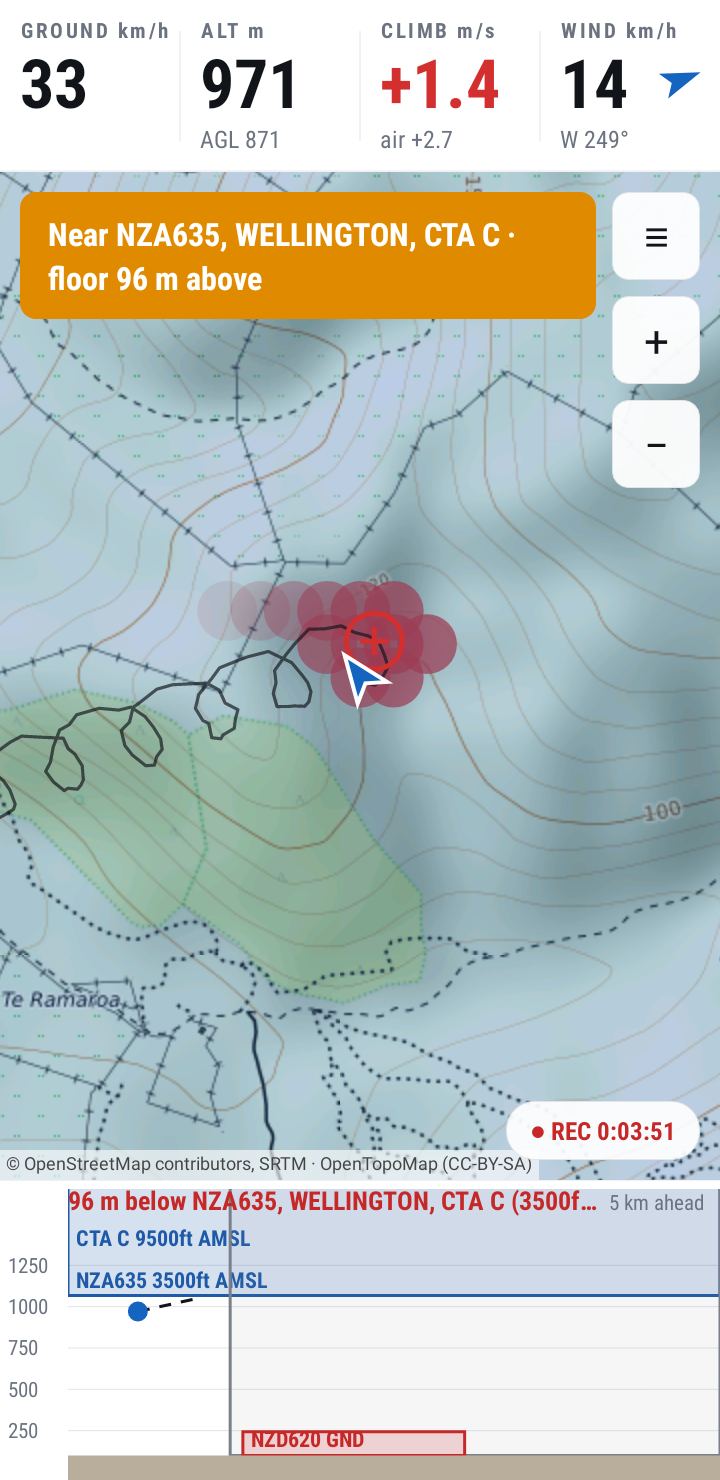
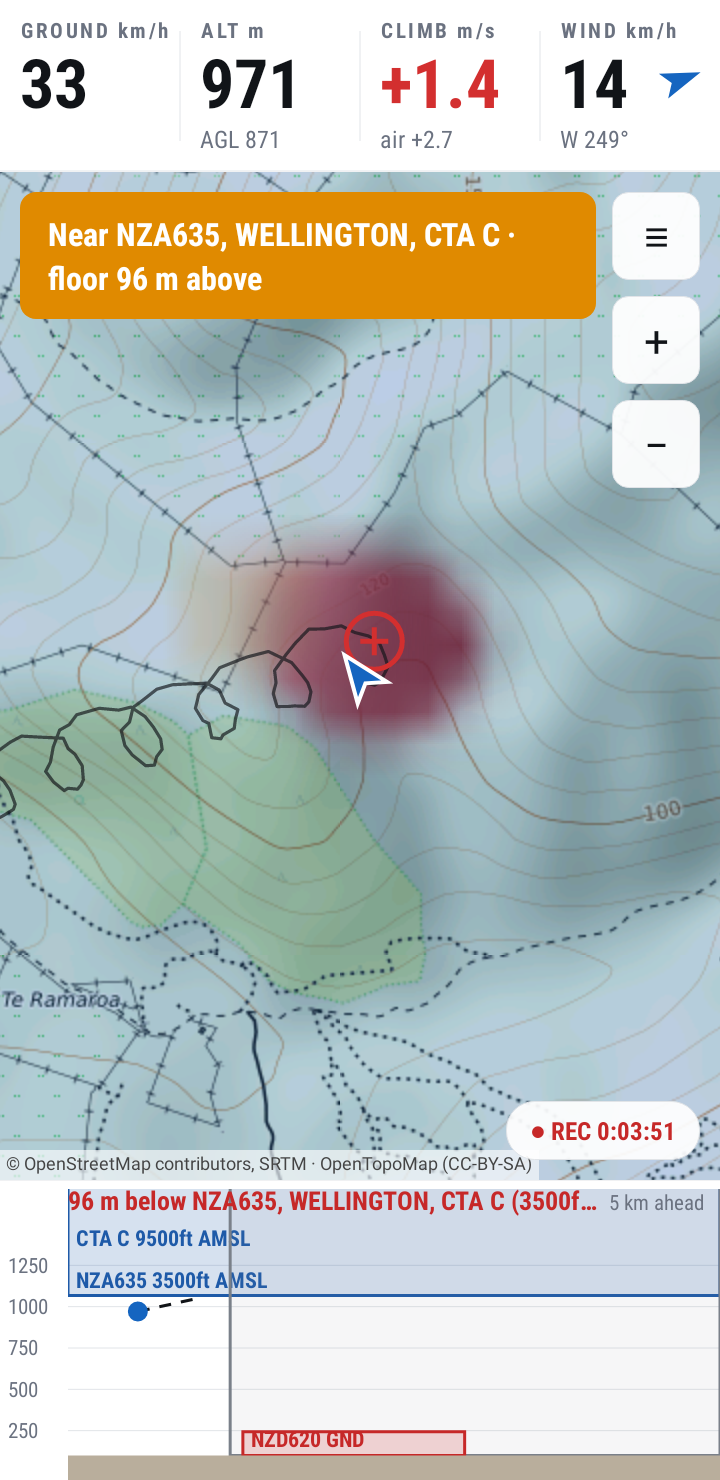
cloudbase: thermal map drawn as a smooth graduated heat-map cloud
Claude-Session: https://claude.ai/code/session_01WPq8MfriARqNX7o4hLC8bK

Changed region(s): [[0.2444, 0.3419, 0.7028, 0.5284]]

diff --git a/app/src/main/java/app/cloudbase/ui/Overlays.kt b/app/src/main/java/app/cloudbase/ui/Overlays.kt
@@ -1,13 +1,16 @@
 package app.cloudbase.ui
 
 import android.content.Context
+import android.graphics.Bitmap
 import android.graphics.Canvas
 import android.graphics.Color
 import android.graphics.DashPathEffect
 import android.graphics.Paint
 import android.graphics.Path
+import android.graphics.RectF
 import app.cloudbase.Hub
 import app.cloudbase.core.Geo
+import app.cloudbase.core.LocalProjection
 import app.cloudbase.core.airspace.Airspace
 import app.cloudbase.core.airspace.AlertLevel
 import app.cloudbase.core.airspace.Relevance
@@ -108,41 +111,77 @@ class AirspaceOverlay(context: Context) : MapView.Overlay {
     }
 }
 
-/** The lift/sink heat map: red where the air was rising, blue where it was sinking. */
+/**
+ * The lift/sink heat map: a smooth cloud over the air that has been flown through, warm colours
+ * where it was rising and cool where it was sinking, stronger colour for stronger air.
+ *
+ * Every thermal-map cell sits on one regular lattice (they all drift together), so the cells map
+ * straight onto the pixels of a small bitmap, which [HeatGrid] smooths and the canvas scales up.
+ */
 class ThermalOverlay(context: Context) : MapView.Overlay, ThermalMap.Visitor {
-    private val paint = Paint(Paint.ANTI_ALIAS_FLAG)
-    private val minR = context.dp(3f)
-    private var canvas: Canvas? = null
-    private var proj: MapView.Projection? = null
-    private var radius = 0f
+    private val grid = HeatGrid(SIZE)
+    private val bitmap = Bitmap.createBitmap(SIZE, SIZE, Bitmap.Config.ARGB_8888)
+    private val paint = Paint(Paint.FILTER_BITMAP_FLAG)
+    private val dst = RectF()
+
+    // Lattice bookkeeping for the pass in progress.
+    private var proj = LocalProjection(0.0, 0.0)
+    private var cell = 30.0
+    private var hasPhase = false
+    private var x0 = 0.0   // metres (east, north) of one lattice point: the first cell seen
+    private var y0 = 0.0
+    private var cx = 0     // lattice index of the view centre relative to that point
+    private var cy = 0
 
     override fun draw(canvas: Canvas, p: MapView.Projection) {
         if (!Hub.settings.showThermals) return
         val t = Hub.computer.thermals
         val now = Hub.computer.fix?.timeMs ?: return
         if (t.size == 0) return
-        this.canvas = canvas
-        proj = p
-        // Slightly larger than half a cell so neighbouring cells merge into a smooth patch.
-        radius = max(minR, (t.cellM * 0.9 / p.metresPerPixel).toFloat())
-        t.forEach(p.minLat, p.minLon, p.maxLat, p.maxLon, now, this)
-        this.canvas = null
+
+        // The bitmap covers SIZE cells around the middle of the view (about 2.9 km at 30 m cells).
+        val midLat = (p.minLat + p.maxLat) / 2
+        val midLon = p.lon(p.width / 2f)
+        proj = LocalProjection(midLat, midLon)
+        cell = t.cellM
+        hasPhase = false
+        grid.clear()
+        val half = SIZE / 2 * cell
+        t.forEach(proj.lat(-half), proj.lon(-half), proj.lat(half), proj.lon(half), now, this)
+        if (!hasPhase) return
+        grid.render(FULL_SCALE_MS)
+        bitmap.setPixels(grid.pixels, 0, SIZE, 0, 0, SIZE, SIZE)
+
+        // Pixel (i, j) is the lattice point (cx - SIZE/2 + i, cy + SIZE/2 - j): north is up.
+        val west = x0 + (cx - SIZE / 2 - 0.5) * cell
+        val east = west + SIZE * cell
+        val north = y0 + (cy + SIZE / 2 + 0.5) * cell
+        val south = north - SIZE * cell
+        dst.set(p.x(proj.lon(west)), p.y(proj.lat(north)), p.x(proj.lon(east)), p.y(proj.lat(south)))
+        canvas.drawBitmap(bitmap, null, dst, paint)
     }
 
     override fun cell(lat: Double, lon: Double, climb: Double, ageMs: Long) {
-        val strength = min(1.0, abs(climb) / FULL_SCALE_MS)
-        if (strength < 0.1) return
+        val x = proj.x(lon)
+        val y = proj.y(lat)
+        if (!hasPhase) {
+            hasPhase = true
+            x0 = x; y0 = y
+            cx = Math.round(-x0 / cell).toInt()
+            cy = Math.round(-y0 / cell).toInt()
+        }
+        val ix = Math.round((x - x0) / cell).toInt() - cx + SIZE / 2
+        val iy = cy + SIZE / 2 - Math.round((y - y0) / cell).toInt()
         // Fade with age: an old thermal has probably moved on or died.
-        val fresh = 1.0 - 0.7 * min(1.0, ageMs / FADE_MS)
-        paint.color = Theme.climbColor(climb, (190 * strength * fresh).toInt())
-        val p = proj ?: return
-        canvas?.drawCircle(p.x(lon), p.y(lat), radius, paint)
+        val fresh = 1f - 0.75f * min(1.0, ageMs / FADE_MS).toFloat()
+        grid.splat(ix, iy, climb.toFloat(), fresh)
     }
 
     companion object {
-        /** Lift or sink at which the colour is fully saturated. */
-        const val FULL_SCALE_MS = 3.0
+        /** Lift or sink at which the colour is at its strongest. */
+        const val FULL_SCALE_MS = 3.0f
         const val FADE_MS = 15 * 60_000.0
+        const val SIZE = 96
     }
 }
 

diff --git a/app/src/main/java/app/cloudbase/ui/HeatGrid.kt b/app/src/main/java/app/cloudbase/ui/HeatGrid.kt
@@ -1,0 +1,91 @@
+package app.cloudbase.ui
+
+import kotlin.math.abs
+import kotlin.math.min
+
+/**
+ * Turns scattered lift/sink cells into a smooth picture: a small grid, one pixel per thermal-map
+ * cell, where every cell is spread over its neighbours with a Gaussian kernel. The pixel's value
+ * is the weighted average climb of everything spread onto it, and its opacity is how much was
+ * (so the edge of what has been flown through fades out rather than ending in a hard line).
+ * Drawn scaled up with bilinear filtering, that reads as a cloud, not as dots.
+ *
+ * Plain Kotlin on arrays so it can be tested without Android, and nothing is allocated per frame.
+ */
+class HeatGrid(val n: Int) {
+    private val sum = FloatArray(n * n)
+    private val weight = FloatArray(n * n)
+    /** Non-premultiplied ARGB, row 0 at the top, ready for Bitmap.setPixels. */
+    val pixels = IntArray(n * n)
+
+    fun clear() {
+        sum.fill(0f)
+        weight.fill(0f)
+    }
+
+    /** Spread one cell at grid position ([ix], [iy]) with value [climb] m/s; [w] 0..1 scales its say (age). */
+    fun splat(ix: Int, iy: Int, climb: Float, w: Float) {
+        if (ix < -R || iy < -R || ix >= n + R || iy >= n + R || w <= 0f) return
+        for (dy in -R..R) {
+            val y = iy + dy
+            if (y < 0 || y >= n) continue
+            val ky = KERNEL[dy + R]
+            for (dx in -R..R) {
+                val x = ix + dx
+                if (x < 0 || x >= n) continue
+                val k = ky * KERNEL[dx + R] * w
+                val i = y * n + x
+                sum[i] += k * climb
+                weight[i] += k
+            }
+        }
+    }
+
+    /** Fill [pixels]. [fullScale] is the climb or sink (m/s) at which the colour is at its strongest. */
+    fun render(fullScale: Float) {
+        for (i in pixels.indices) {
+            val w = weight[i]
+            if (w < 1e-4f) { pixels[i] = 0; continue }
+            val v = sum[i] / w
+            // One fresh cell alone gives CENTRE_WEIGHT at its own pixel: that counts as fully covered.
+            val coverage = min(1f, w / CENTRE_WEIGHT)
+            pixels[i] = color(v, fullScale, coverage)
+        }
+    }
+
+    companion object {
+        private const val R = 2
+        /** Binomial approximation of a Gaussian, sigma about one cell. */
+        private val KERNEL = floatArrayOf(1 / 16f, 4 / 16f, 6 / 16f, 4 / 16f, 1 / 16f)
+        private const val CENTRE_WEIGHT = (6 / 16f) * (6 / 16f)
+        /** Air moving less than this is shown as nothing: it is within the noise of the estimate. */
+        const val DEAD_BAND = 0.2f
+        const val MAX_ALPHA = 215
+
+        // Graduated ramps, weakest to strongest. Lift runs warm (amber to deep red), sink runs
+        // cool (pale to deep blue), so strength reads from the hue as well as the opacity.
+        private val LIFT = intArrayOf(0xFFC14D, 0xFF8A3D, 0xF4511E, 0xD32F2F, 0x8E0000)
+        private val SINK = intArrayOf(0x9AD1F5, 0x5AAEF0, 0x1E88E5, 0x1565C0, 0x0B3C91)
+
+        /** ARGB for a climb value. [coverage] 0..1 fades the edges of the mapped area. */
+        fun color(climb: Float, fullScale: Float, coverage: Float): Int {
+            val mag = abs(climb)
+            if (mag <= DEAD_BAND || coverage <= 0f) return 0
+            val t = min(1f, (mag - DEAD_BAND) / (fullScale - DEAD_BAND))
+            val ramp = if (climb > 0) LIFT else SINK
+            val pos = t * (ramp.size - 1)
+            val k = min(pos.toInt(), ramp.size - 2)
+            val f = pos - k
+            val a = ramp[k]
+            val b = ramp[k + 1]
+            val r = mix(a shr 16 and 0xFF, b shr 16 and 0xFF, f)
+            val g = mix(a shr 8 and 0xFF, b shr 8 and 0xFF, f)
+            val bl = mix(a and 0xFF, b and 0xFF, f)
+            // Weak air is faint, strong air is solid; never fully opaque so the map shows through.
+            val alpha = (MAX_ALPHA * coverage * (0.35f + 0.65f * t)).toInt()
+            return (alpha shl 24) or (r shl 16) or (g shl 8) or bl
+        }
+
+        private fun mix(a: Int, b: Int, f: Float): Int = (a + (b - a) * f + 0.5f).toInt()
+    }
+}

diff --git a/app/src/test/java/app/cloudbase/ui/HeatGridTest.kt b/app/src/test/java/app/cloudbase/ui/HeatGridTest.kt
@@ -1,0 +1,88 @@
+package app.cloudbase.ui
+
+import org.junit.Assert.assertEquals
+import org.junit.Assert.assertTrue
+import org.junit.Test
+
+class HeatGridTest {
+    private fun alpha(c: Int) = c ushr 24
+    private fun red(c: Int) = c shr 16 and 0xFF
+    private fun blue(c: Int) = c and 0xFF
+
+    @Test fun colourIsGraduatedAndSplitByDirection() {
+        // Nothing inside the dead band.
+        assertEquals(0, HeatGrid.color(0.1f, 3f, 1f))
+        assertEquals(0, HeatGrid.color(-0.15f, 3f, 1f))
+        // Lift is warm, sink is cool.
+        val lift = HeatGrid.color(2f, 3f, 1f)
+        val sink = HeatGrid.color(-2f, 3f, 1f)
+        assertTrue(red(lift) > blue(lift) + 80)
+        assertTrue(blue(sink) > red(sink) + 80)
+        // Stronger is more opaque, monotonically, and saturates at full scale.
+        var last = 0
+        for (v in listOf(0.3f, 0.6f, 1f, 1.5f, 2f, 2.5f, 3f)) {
+            val a = alpha(HeatGrid.color(v, 3f, 1f))
+            assertTrue("alpha at $v", a > last)
+            last = a
+        }
+        assertEquals(HeatGrid.color(3f, 3f, 1f), HeatGrid.color(8f, 3f, 1f))
+        assertEquals(HeatGrid.MAX_ALPHA, alpha(HeatGrid.color(3f, 3f, 1f)))
+        // The hue itself changes with strength, not only the opacity.
+        assertTrue(HeatGrid.color(0.5f, 3f, 1f) and 0xFFFFFF != HeatGrid.color(2.8f, 3f, 1f) and 0xFFFFFF)
+        // Coverage fades.
+        assertTrue(alpha(HeatGrid.color(2f, 3f, 0.3f)) < alpha(lift))
+    }
+
+    @Test fun oneCellBecomesASoftBlob() {
+        val g = HeatGrid(16)
+        g.clear()
+        g.splat(8, 8, 2f, 1f)
+        g.render(3f)
+        val centre = alpha(g.pixels[8 * 16 + 8])
+        val next = alpha(g.pixels[8 * 16 + 9])
+        val edge = alpha(g.pixels[8 * 16 + 10])
+        assertEquals(alpha(HeatGrid.color(2f, 3f, 1f)), centre)
+        assertTrue("fades outwards: $centre > $next > $edge > 0", centre > next && next > edge && edge > 0)
+        assertEquals(0, g.pixels[8 * 16 + 11])
+        // Same value everywhere it reaches: only the opacity falls off.
+        assertEquals(g.pixels[8 * 16 + 8] and 0xFFFFFF, g.pixels[8 * 16 + 9] and 0xFFFFFF)
+        // Symmetric.
+        assertEquals(g.pixels[8 * 16 + 9], g.pixels[8 * 16 + 7])
+        assertEquals(g.pixels[8 * 16 + 9], g.pixels[9 * 16 + 8])
+    }
+
+    @Test fun neighbouringLiftAndSinkBlendThroughNothing() {
+        val g = HeatGrid(16)
+        g.clear()
+        g.splat(6, 8, 2f, 1f)
+        g.splat(8, 8, -2f, 1f)
+        g.render(3f)
+        // Exactly between equal lift and sink the average is zero: transparent, not purple.
+        assertEquals(0, g.pixels[8 * 16 + 7])
+        assertTrue(red(g.pixels[8 * 16 + 6]) > blue(g.pixels[8 * 16 + 6]))
+        assertTrue(blue(g.pixels[8 * 16 + 8]) > red(g.pixels[8 * 16 + 8]))
+    }
+
+    @Test fun oldCellsCountForLess() {
+        val g = HeatGrid(16)
+        g.clear()
+        g.splat(8, 8, 2f, 0.3f)
+        g.render(3f)
+        val faded = alpha(g.pixels[8 * 16 + 8])
+        assertTrue(faded > 0 && faded < alpha(HeatGrid.color(2f, 3f, 1f)))
+        // A fresh sample on the same spot outweighs an old one.
+        g.splat(8, 8, -2f, 1f)
+        g.render(3f)
+        assertTrue(blue(g.pixels[8 * 16 + 8]) > red(g.pixels[8 * 16 + 8]))
+    }
+
+    @Test fun edgesAndClearAreSafe() {
+        val g = HeatGrid(8)
+        g.clear()
+        for (p in listOf(-5, -2, -1, 0, 7, 8, 9, 20)) { g.splat(p, p, 1f, 1f); g.splat(p, 3, 1f, 1f) }
+        g.render(3f)
+        g.clear()
+        g.render(3f)
+        assertTrue(g.pixels.all { it == 0 })
+    }
+}

diff --git a/README.md b/README.md
@@ -36,9 +36,9 @@ is carrying you on the map.
 
 **Map.** North-up topographic map. Airspace you must stay out of is outlined blue (controlled)
 or red (restricted, danger, military); informational airspace is thin grey. Tap an airspace for
-its limits, or to ignore it. Red and blue blobs are the **thermal map**: red where the air was
-rising, blue where it was sinking, drifting downwind with the air; the red ring marks the best
-lift nearby. The map **zooms in close when you start circling** and back out when you leave.
+its limits, or to ignore it. The coloured cloud is the **thermal map**: warm where the air was
+rising (amber for weak lift through to deep red for strong), cool where it was sinking (pale to
+deep blue), drifting downwind with the air; the red ring marks the best lift nearby. The map **zooms in close when you start circling** and back out when you leave.
 The dashed line ends in an **×** where your present glide meets the ground (while climbing it
 shows where you will be in a minute instead).
 
